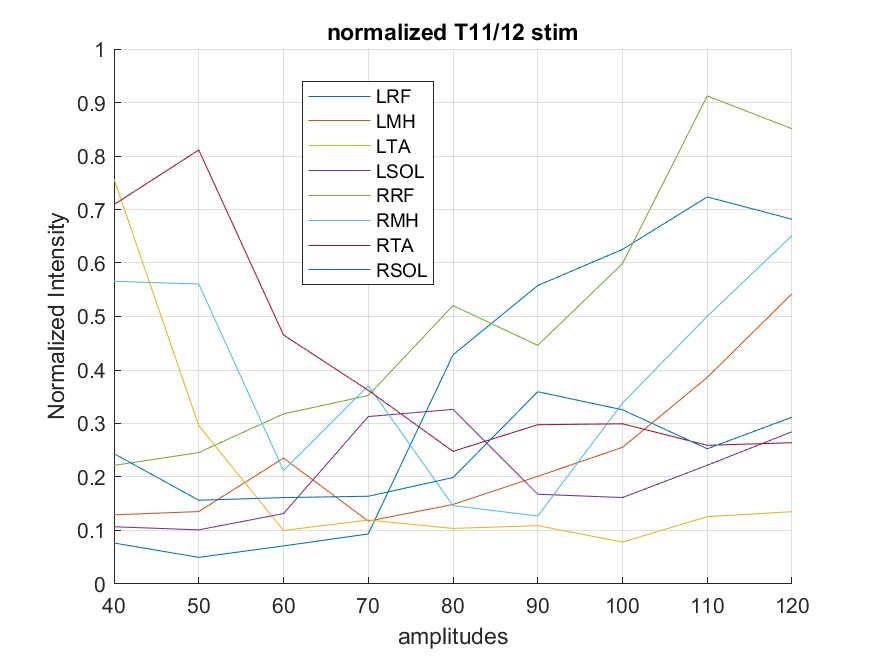
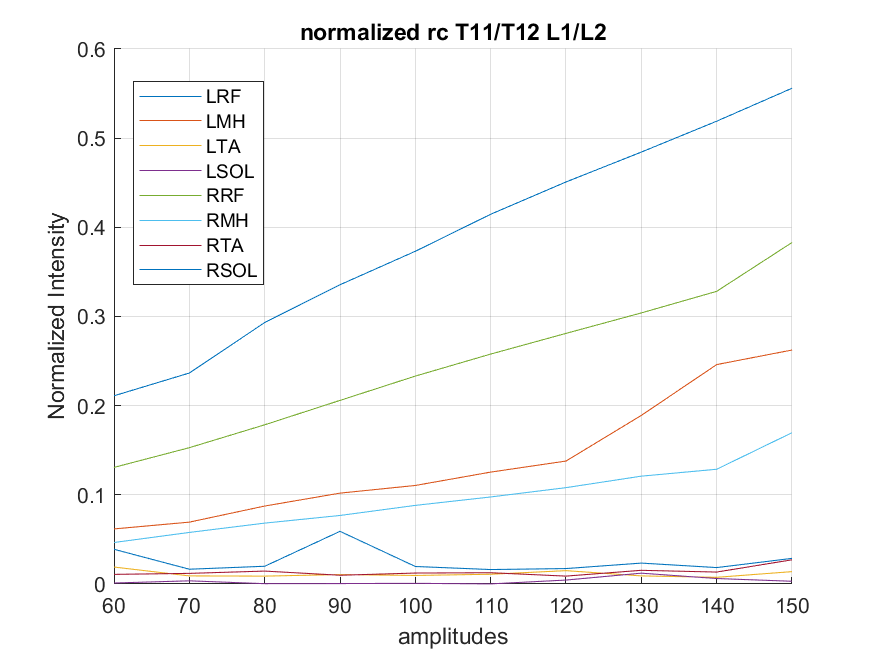
Officially Working with new data format
the positional comments are integrated into the name of the stimulations

Changed all 3:10 to channel to use

Fixed a bug where Unique() doesn't give the names in order. Resolved this by matching "curr_range" to each row where strcmp evaluates to true

diff --git a/AutomationDraft.m b/AutomationDraft.m
@@ -123,7 +123,7 @@ fprintf("\n ===== Relevant records identified as " + int2str(relevant_records)+ 
 % Create unique keys for all elements in comments
 fprintf('\n ===== Filtering Comments =====\n\n' );
 
-keys = arrayfun(@(x) sprintf('%s_%d_%s', x.str, x.tick_position, x.record), comments, "UniformOutput",false);
+keys = arrayfun(@(x) sprintf('%s_%d_%s', x.tick_position, x.record), comments, "UniformOutput",false);
 
 %find unique elements based on the keys
 [~, uniqueIdx] = unique(keys, 'stable');
@@ -162,7 +162,10 @@ clearvars sortIdx tick_pos record
 
 %DONE: Figure out how to determine this for other datasets
 
-filteredComments = filteredComments(arrayfun(@(x) ismember(x.record,[6,12,15]), filteredComments));
+% TODO: remove this line, as it has been rendered obsolete by new way of
+% doing things, assuming data is sufficiently clean and I don't have to do
+% more cleaning here 
+% filteredComments = filteredComments(arrayfun(@(x) ismember(x.record,records), filteredComments));
 
 
 fprintf('\n ===== Finding Peak to Peak =====\n\n' );
@@ -174,10 +177,10 @@ for i = 1:numel(filteredComments)
 %For each stimulation under the amplitude
 %   Find in data{record}, the max - min in the area tick+130 to tick+230
         % DONE: parameterize 3:10, which stands for the channels
-        windowsr1 = Data{x.record}(3:10, x.tick_position+R1_delay:x.tick_position+R2_delay);
+        windowsr1 = Data{x.record}(channels_to_use, x.tick_position+R1_delay:x.tick_position+R2_delay);
         maxminr1 = max(windowsr1, [],2) - min(windowsr1,[],2);
 
-        windowsr2 = Data{x.record}(3:10, x.tick_position+R2_delay:x.tick_position+R2_delay+window_size);
+        windowsr2 = Data{x.record}(channels_to_use, x.tick_position+R2_delay:x.tick_position+R2_delay+window_size);
         maxminr2 = max(windowsr2, [],2) - min(windowsr2,[],2);
 %   Store this information to maxminr1 field of filteredcomments
         filteredComments(i).maxminr1 = maxminr1;
@@ -194,6 +197,9 @@ clearvars R1_delay R2_delay windowsr2 windowsr1 maxminr2 maxminr1 x i window_siz
 
 %% Maxmin calculation
 
+%TODO: make sure that the positional comments are integrated into the name
+%of the stimulations
+
 
 %   Then, while averaging each max-min, merge elements with same record, amplitude,
 %   and stimulation
@@ -203,16 +209,23 @@ clearvars R1_delay R2_delay windowsr2 windowsr1 maxminr2 maxminr1 x i window_siz
 fprintf('\n ===== Calculating Peak to Peak related data =====\n\n' );
 
 lastamp = 1;
+last_loc = '';
 
 
+rows_to_remove = [];
 
 for i = 1:numel(filteredComments)
     x = filteredComments(i);
     if ischar(x.str)
-        filteredComments(lastamp).sumr1 = filteredComments(lastamp).sumr1 + x.maxminr1;
-        filteredComments(lastamp).sumr2 = filteredComments(lastamp).sumr2 + x.maxminr2;
-        filteredComments(lastamp).count = filteredComments(lastamp).count + 1;
-        filteredComments(lastamp).record_name = x.str;
+        if strcmp(x.str, 'stim')
+            filteredComments(lastamp).sumr1 = filteredComments(lastamp).sumr1 + x.maxminr1;
+            filteredComments(lastamp).sumr2 = filteredComments(lastamp).sumr2 + x.maxminr2;
+            filteredComments(lastamp).count = filteredComments(lastamp).count + 1;
+            filteredComments(lastamp).record_name = last_loc;
+        else 
+            last_loc = x.str;
+            rows_to_remove(end+1) = i;
+        end
 
     elseif isnumeric(x.str)
         lastamp = i;
@@ -223,6 +236,10 @@ for i = 1:numel(filteredComments)
        
     end 
 end
+
+%Remove irrelevant rows from filtered comments
+
+filteredComments(rows_to_remove) = [];
 
 %Outputting
 
@@ -248,11 +265,11 @@ fprintf('\n ===== Preparing Output =====\n\n' );
 % DONE: Clean up output, s.t. it only contains info we need 
 
 %Calculate average & store into new struct 
-channel_names = string({channel_meta(3:10).name});
+channel_names = string({channel_meta(channels_to_use).name});
 
 
 % Assume each amp value has the "record_name" field 
-record_names = string(unique({output.record_name}));
+record_names = unique({output.record_name}); %For some reason this gives you results in a very random order
 
 
 
@@ -301,7 +318,7 @@ fprintf('\n Done! \n\n')
 fprintf('\n ===== detected R2/R1 ratio boolean, calculating... ===== \n\n' );
 
 outratio = outr2; % Initialize the new table with outr1's structure
-outratio{:, 3:10} = outr2{:, 3:10} ./ outr1{:, 3:10}; % Element-wise division
+outratio{:, channels_to_use} = outr2{:, channels_to_use} ./ outr1{:, channels_to_use}; % Element-wise division
 
 outrationame = 'Output/outputr2r1ratio.csv';
 writetable(outratio, outrationame);

diff --git a/PlotRC.m b/PlotRC.m
@@ -67,13 +67,15 @@ end
      %for r = 1:repetition %each of this will be a line in one graph
 
      for i = 3:data_width %First, define the columns
-        figure('visible','off');
+        figure;
         hold on;
         muscle_name = data.Properties.VariableNames{i};
 
         for r = 1:length(record_names) %Plot each range of data as a separate line
-            data_range = sum(strcmp(data.record_name, record_names(r)));
-            curr_range = (1:data_range) + data_range * (r-1) ;
+
+
+            curr_range = ismember(data.record_name, record_names(r));
+
             x = data{curr_range,1};
             channel = data{curr_range,i}; %DONE: change this so that it just loops through each column
             plot(x, channel, "DisplayName", record_names(r)); % DONE: change dispalyname to be the column name
@@ -88,7 +90,7 @@ end
 
         plot_name = "Output/rcplot " + str_ratio + muscle_name + " " + str_normalize + str_global + ".png";
         saveas(gcf, plot_name);
-        fprintf(['plot saved as ' plot_name])
+        % fprintf(['plot saved as ' plot_name])
         clf; 
 
      end
@@ -96,12 +98,15 @@ end
     else %Plotting per record
      for r = 1:length(record_names)
         %First, extract x-axis (str.values)
-        figure('visible','off');
+        figure;
         hold on;
 
-        data_range = sum(strcmp(data.record_name, record_names(r)));
-        curr_range = (1:data_range) + data_range * (r-1) ;
-        x = data{curr_range,1};
+        % Instead: find the indices of the rows where strcmp evaluates to
+        % true 
+        % data_range = sum(strcmp(data.record_name, record_names(r)));
+        % curr_range = (1:data_range) + data_range * (r-1) ;
+        curr_range = ismember(data.record_name, record_names(r));
+        x = data{curr_range,1}; % extract the amplitudes 
         
         
         tab10 = [
@@ -134,7 +139,7 @@ end
         
         plot_name = "Output/rcplot" + r  + str_ratio + str_normalize+ str_global + ".png";
         saveas(gcf, plot_name);
-        fprintf(['plot saved as ' plot_name])
+        % fprintf(['plot saved as ' plot_name])
         clf; 
      end
 
